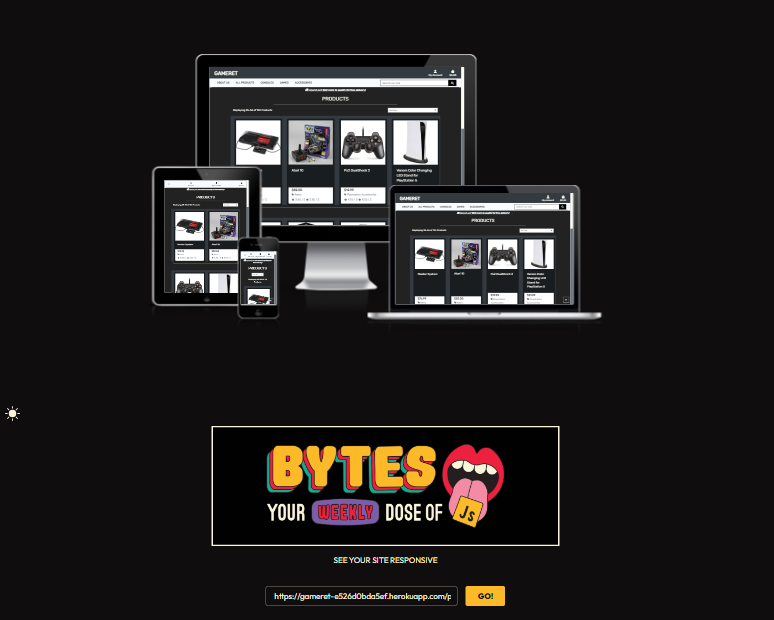
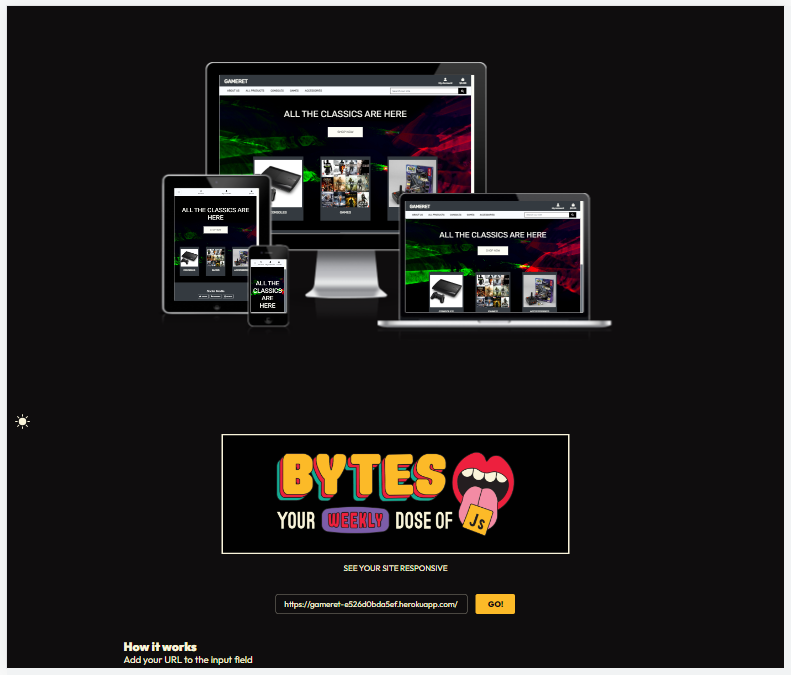
Add epics and inital design to readme

Changed region(s): [[0.0, 0.0, 1.0, 1.0], [0.186, 0.0613, 0.7752, 0.521]]

diff --git a/static/css/base.css b/static/css/base.css
@@ -43,7 +43,7 @@ body {
 }
 
 .btn-black {
-    background: black;
+    background: #222;
     color: white;
 }
 
@@ -56,7 +56,7 @@ body {
 .btn-outline-black:hover,
 .btn-outline-black:active,
 .btn-outline-black:focus {
-    background: black;
+    background: #222;
     color: #fdfdf6 !important;
     border: 1px solid #fdfdf6;
 }
@@ -82,7 +82,7 @@ body {
 }
 
 .text-black {
-    color: #000 !important;
+    color: #222 !important;
 }
 
 .border-black {
@@ -90,7 +90,7 @@ body {
 }
 
 .bg-black {
-    background: #000 !important;
+    background: #222 !important;
 }
 
 .card {
@@ -130,7 +130,7 @@ hr{
 }
 
 a.category-badge > span.badge:hover {
-    background: #212529  !important;
+    background: #222  !important;
     color: #fdfdf6 !important;
 }
 
@@ -151,11 +151,11 @@ a.category-badge > span.badge:hover {
 
 .pagination-underline {
     text-decoration: underline;
-    color: #f8f9fa;
+    color: #FDFDF6;
 }
 .pagination-underline:hover {
     text-decoration: underline;
-    text-decoration-color: #f8f9fa;
+    text-decoration-color: #FDFDF6;
 }
 
 .banner-font {
@@ -199,7 +199,7 @@ a.category-badge > span.badge:hover {
     height: 0; 
     border-left: 4px solid transparent;
     border-right: 4px solid transparent; 
-    border-bottom: 10px solid black;
+    border-bottom: 10px solid 222;
     position: absolute;
     top: -10px;
     right: 36px;

diff --git a/README.md b/README.md
@@ -194,3 +194,169 @@ Gameret uses Mailchimp to manage its mailing list. By joining the mailing list, 
 | 31 | Store Owner / Admin | edit a product | edit existing products in the shop |
 | 32 | Store Owner / Admin | delete a product | delete existing products from the shop |
 | 33 | Store Owner / Admin | view messages sent in by public | gather feedback and converse its with its community|
+
+
+### Kanban, Epics & User Stories
+- GitHub Kanban was used to track all open user stories
+- The Milestones feature was used to create Epics
+- Todo, In Progress, Done headings were used in the kanban
+
+<details><summary>Epic Overview</summary>
+
+![Epics](docs/user_stories/Epics.PNG)
+</details>
+
+<details><summary>Epic 1</summary>
+
+![Epic 1](docs/user_stories/us_1.PNG)
+</details>
+
+<details><summary>Epic 2</summary>
+
+![Epic 2](docs/user_stories/us_2.PNG)
+</details>
+
+<details><summary>Epic 3</summary>
+
+![Epic 3](docs/user_stories/us_3.PNG)
+</details>
+
+<details><summary>Epic 4</summary>
+
+![Epic 4](docs/user_stories/us_4.PNG)
+</details>
+
+<details><summary>Epic 5</summary>
+
+![Epic 5](docs/user_stories/us_5.PNG)
+</details>
+
+<details><summary>User Stories</summary>
+
+![User stories](docs/user_stories/user_stories_1.png)
+![User stories](docs/user_stories/user_stories_2.png)
+
+</details>
+
+<details><summary>Kanban</summary>
+
+![Kanban](docs/user_stories/kanban.PNG)
+
+</details>
+
+
+##### Back to [top](#table-of-contents)<hr>
+
+<!-- ## Wireframes
+I used Balsamiq to create wireframes for my project. It's a user-friendly wireframing tool that enables me to quickly and easily create mockups for my website or application. It offers a wide range of pre-built UI elements, and allows for easy collaboration with my team. I linked a pdf of my wireframes, which you can access it and check it out the design, layout and the flow of the project before implementing it in the real product.  
+
+<a href="https://github.com/ArronBeale/CI_PP5_tee_time/raw/main/docs/wireframes/wireframes-teetime.pdf" target="_blank">Download Wireframes PDF</a>  
+(Ctrl + click to open in new tab)  
+
+<details><summary>Wireframe Home</summary>  
+
+![Epics](https://raw.githubusercontent.com/ArronBeale/CI_PP5_tee_time/main/docs/wireframes/wireframe-home.PNG)
+</details>
+
+<details><summary>Wireframe Profile</summary>  
+
+![Epic 1](https://raw.githubusercontent.com/ArronBeale/CI_PP5_tee_time/main/docs/wireframes/wireframe-profile.PNG)
+</details>
+
+<details><summary>Wireframe Clubs</summary>  
+
+![Epic 2](https://raw.githubusercontent.com/ArronBeale/CI_PP5_tee_time/main/docs/wireframes/wireframe-clubs.PNG)
+</details>
+
+<details><summary>Wireframe Club Detail</summary>  
+
+![Epic 3](https://raw.githubusercontent.com/ArronBeale/CI_PP5_tee_time/main/docs/wireframes/wireframe-club-detail-01.PNG)
+![Epic 3](https://raw.githubusercontent.com/ArronBeale/CI_PP5_tee_time/main/docs/wireframes/wireframe-club-detail-02.PNG)
+</details>
+
+<details><summary>Wireframe Shop</summary>  
+
+![Epic 4](https://raw.githubusercontent.com/ArronBeale/CI_PP5_tee_time/main/docs/wireframes/wireframe-shop.PNG)
+</details>  
+
+<details><summary>Wireframe Product Detail</summary>  
+
+![Epic 4](https://raw.githubusercontent.com/ArronBeale/CI_PP5_tee_time/main/docs/wireframes/wireframe-product-detail.PNG)
+</details> 
+
+<details><summary>Wireframe Checkout</summary>  
+
+![Epic 4](https://raw.githubusercontent.com/ArronBeale/CI_PP5_tee_time/main/docs/wireframes/wireframe-checkout.PNG)
+</details>  
+
+<hr> -->
+
+## Design
+
+### Colors
+
+
+The colour sheme was chosen as a dark grey and black theme in which i was aided by Adobe Color by using their Split Complementary Color feature. A simple grey and egg-shell white was used to give it contrast which was selected also through adobe color. A slighly dark grey was selected for certain elements in the events page.  
+<details><summary>See Color Palette</summary>
+
+![Color Palette](docs/design/colors.PNG)
+</details>
+
+### Fonts
+
+ The font selected was from Google Fonts, Roboto.
+
+ <details><summary>See Font Image</summary>
+
+![Font Image](docs/design/font.PNG)
+</details>
+<hr>
+
+# Structure
+
+The home page is designed to have all relevanet information easily accessible with all relevent navigation clearly visible. The logo is postioned on the left with the bag information to the right. The search navigation information is postioned just below the logo and bag information centrally and this is shown on all pages in the same layout. The design is created also to be responsive on all viewports while maintaing all relevant information:
+
+## Website pages
+
+- The site consists of the following pages:
+  - Home
+  - Product List
+  - Edit product
+  - Delete product
+  - Product Expanded
+  - Basket
+  - Checkout
+  - Checkout Success
+  - About
+  - Register
+  - Profile
+  - Login
+  - Logout
+  - Reset Password
+  - Register
+  - 404
+  - 500
+
+  ##### Back to [top](#table-of-contents)
+  <hr>
+
+## AWS 
+
+AWS (Amazon Web Services) was utilized in this project for hosting image files. An S3 bucket on AWS was created to store and serve the project's images, providing a reliable and scalable solution for managing and delivering the visual assets. With AWS, the project benefits from secure and efficient storage capabilities, ensuring seamless access to images throughout the application.
+
+<details><summary>See AWS Images</summary>
+
+![aws bucket](docs/design/aws.PNG)
+</details>
+<hr>
+
+
+## Database
+
+I built my database using PostgreSQL. It's a powerful and open-source object-relational database system that is known for its reliability, robustness, and performance. I chose it because it provides a flexible tool for efficiently managing and organizing my data.
+
+<details><summary>Database Schema</summary>
+
+![Database Schema](docs/design/schema.PNG)  
+
+
